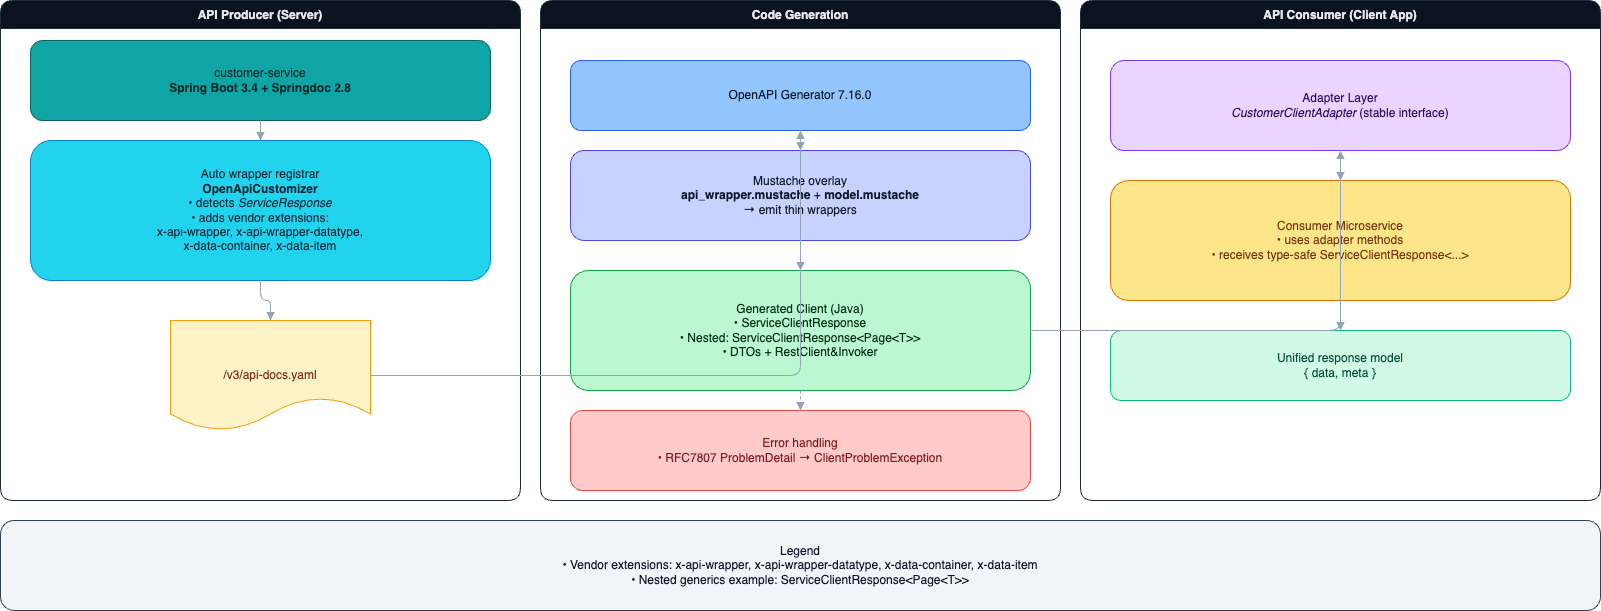
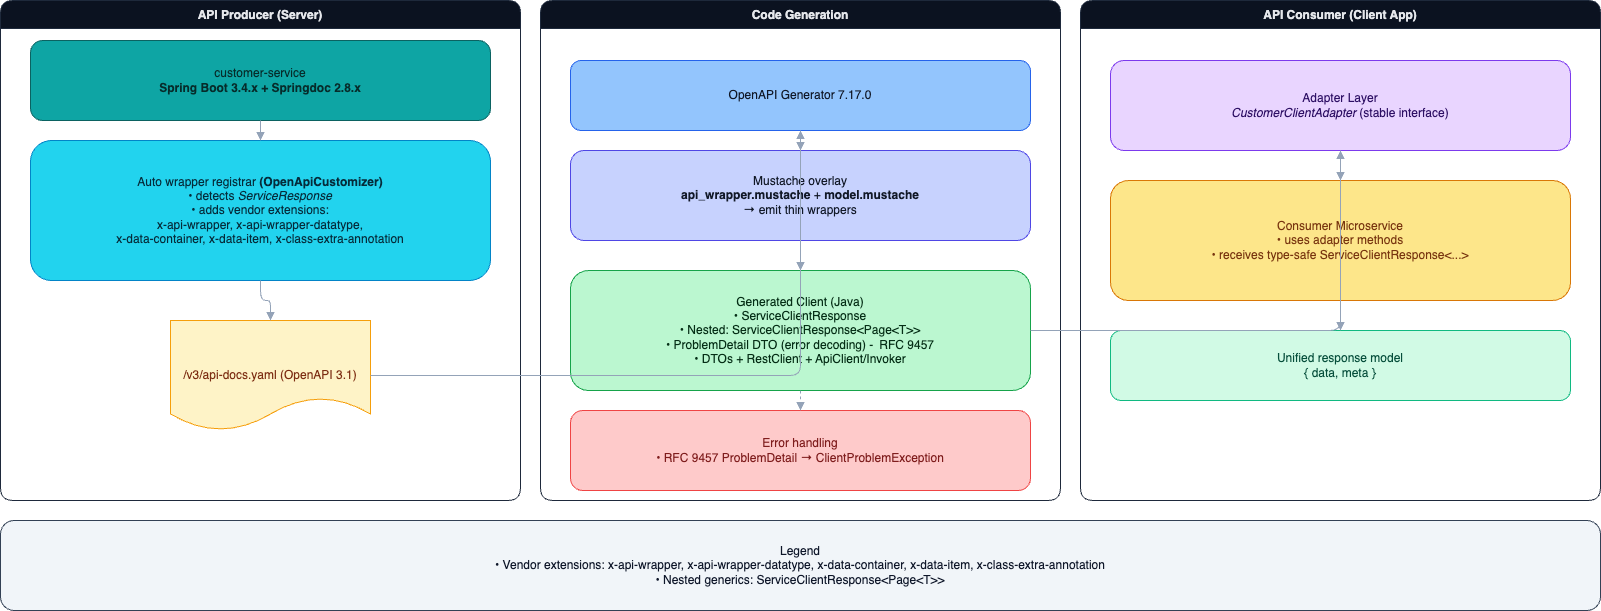
chore(deps+docs): upgrade to Spring Boot 3.4.11 and OpenAPI Generator 7.17.0, update docs and CodeQL
- Upgraded Spring Boot to 3.4.11 and OpenAPI Generator to 7.17.0
- Updated architectural diagram to reflect current stack (Spring Boot 3.4.x, RFC 9457)
- Revised documentation and version references across README and guides
- Enhanced CodeQL configuration with +security-and-quality query pack
- No functional changes; maintenance and alignment release groundwork for v0.7.3

diff --git a/README.md b/README.md
@@ -4,8 +4,8 @@
 [![Release](https://img.shields.io/github/v/release/bsayli/spring-boot-openapi-generics-clients?logo=github\&label=release)](https://github.com/bsayli/spring-boot-openapi-generics-clients/releases/latest)
 [![codecov](https://codecov.io/gh/bsayli/spring-boot-openapi-generics-clients/branch/main/graph/badge.svg)](https://codecov.io/gh/bsayli/spring-boot-openapi-generics-clients)
 [![Java](https://img.shields.io/badge/Java-21-red?logo=openjdk)](https://openjdk.org/projects/jdk/21/)
-[![Spring Boot](https://img.shields.io/badge/Spring%20Boot-3.4.10-green?logo=springboot)](https://spring.io/projects/spring-boot)
-[![OpenAPI Generator](https://img.shields.io/badge/OpenAPI%20Generator-7.16.0-blue?logo=openapiinitiative)](https://openapi-generator.tech/)
+[![Spring Boot](https://img.shields.io/badge/Spring%20Boot-3.4.11-green?logo=springboot)](https://spring.io/projects/spring-boot)
+[![OpenAPI Generator](https://img.shields.io/badge/OpenAPI%20Generator-7.17.0-blue?logo=openapiinitiative)](https://openapi-generator.tech/)
 [![License: MIT](https://img.shields.io/badge/License-MIT-yellow.svg)](LICENSE)
 
 ---
@@ -16,7 +16,7 @@
   <em><strong>End-to-end generics-aware OpenAPI clients</strong> — unified <code>{ data, meta }</code> responses without boilerplate.</em>
 </p>
 
-**Modern, type-safe OpenAPI client generation** — powered by **Spring Boot 3.4**, **Java 21**, and **OpenAPI Generator 7.16.0**.  
+**Modern, type-safe OpenAPI client generation** — powered by **Spring Boot 3.4**, **Java 21**, and **OpenAPI Generator 7.17.0**.  
 This repository demonstrates a production-grade setup where backend and client remain fully aligned through generics, supporting nested envelopes like `ServiceResponse<Page<T>>` and standardized [**RFC 9457 — Problem Details for HTTP APIs**](https://www.rfc-editor.org/rfc/rfc9457) error handling.
 
 > 🧠 **RFC 9457 vs RFC 7807**  
@@ -139,6 +139,7 @@ public class ServiceResponsePageCustomerDto
 
 ---
 
+<a id="architecture-overview"></a>
 ## ⚙ Architecture Overview
 
 <p align="center">
@@ -148,9 +149,9 @@ public class ServiceResponsePageCustomerDto
 </p>
 
 | Layer                 | Description                                                                                           |
-| --------------------- | ----------------------------------------------------------------------------------------------------- |
+| --------------------- |-------------------------------------------------------------------------------------------------------|
 | **Server (Producer)** | Publishes an **OpenAPI 3.1-compliant** spec via Springdoc 2.8.13 with auto-registered wrapper schemas |
-| **Client (Consumer)** | Uses **OpenAPI Generator 7.16.0** with Mustache overlays for generics support                         |
+| **Client (Consumer)** | Uses **OpenAPI Generator 7.17.0** with Mustache overlays for generics support                         |
 | **Envelope Model**    | Unified `{ data, meta }` response structure                                                           |
 | **Error Handling**    | **RFC 9457-compliant Problem Details** decoded into `ClientProblemException`                          |
 | **Nested Generics**   | Full support for `ServiceResponse<Page<T>>`                                                           |
@@ -262,11 +263,11 @@ for (CustomerDto c : page.content()) {
 ## 🧩 Tech Stack
 
 | Component             | Version | Purpose                               |
-| --------------------- | ------- | ------------------------------------- |
+| --------------------- |---------| ------------------------------------- |
 | **Java**              | 21      | Language baseline                     |
-| **Spring Boot**       | 3.4.10  | REST + OpenAPI provider               |
+| **Spring Boot**       | 3.4.11  | REST + OpenAPI provider               |
 | **Springdoc**         | 2.8.13  | OpenAPI 3.1 integration               |
-| **OpenAPI Generator** | 7.16.0  | Generics-aware code generation        |
+| **OpenAPI Generator** | 7.17.0  | Generics-aware code generation        |
 | **HttpClient5**       | 5.5     | Pooled, production-ready HTTP backend |
 
 ---

diff --git a/customer-service-client/README.md b/customer-service-client/README.md
@@ -1,8 +1,8 @@
 # customer-service-client
 
 [![Java 21](https://img.shields.io/badge/Java-21-red?logo=openjdk)](https://openjdk.org/projects/jdk/21/)
-[![Spring Boot](https://img.shields.io/badge/Spring%20Boot-3.4.10-green?logo=springboot)](https://spring.io/projects/spring-boot)
-[![OpenAPI Generator](https://img.shields.io/badge/OpenAPI%20Generator-7.16.0-blue?logo=openapiinitiative)](https://openapi-generator.tech/)
+[![Spring Boot](https://img.shields.io/badge/Spring%20Boot-3.4.11-green?logo=springboot)](https://spring.io/projects/spring-boot)
+[![OpenAPI Generator](https://img.shields.io/badge/OpenAPI%20Generator-7.17.0-blue?logo=openapiinitiative)](https://openapi-generator.tech/)
 [![License: MIT](https://img.shields.io/badge/License-MIT-yellow.svg)](../LICENSE)
 
 Generated Java client for the **customer-service**, showcasing **type‑safe generic responses** and **nested generics** with a minimal OpenAPI Generator Mustache overlay.
@@ -32,7 +32,7 @@ mvn -q clean install
 
 ## ✅ What You Get
 
-* **OpenAPI Generator 7.16.0** + **Spring `RestClient`**-based Java client.
+* **OpenAPI Generator 7.17.0** + **Spring `RestClient`**-based Java client.
 * Reusable generic base: `ServiceClientResponse<T>` containing `{ data, meta }`.
 * **Nested generics** support: `ServiceClientResponse<Page<CustomerDto>>`.
 * **RFC 9457 Problem decoding** via `ClientProblemException`.
@@ -270,7 +270,7 @@ These classes already exist in the shared `common` package and are excluded from
 
 ## 📚 Notes
 
-* **Toolchain:** Java 21, Spring Boot 3.4.10, OpenAPI Generator 7.16.0
+* **Toolchain:** Java 21, Spring Boot 3.4.11, OpenAPI Generator 7.17.0
 * **Options:** `useSpringBoot3=true`, `useJakartaEe=true`, `serializationLibrary=jackson`, `dateLibrary=java8`
 * **Spec file:** `src/main/resources/customer-api-docs.yaml`
 * Optional: `x-class-extra-annotation` injects annotations on wrappers.

diff --git a/docs/index.md b/docs/index.md
@@ -19,7 +19,7 @@ the unified `{ data, meta }` response model and full **nested generic support** 
 
 ## 💡 Overview
 
-Using Springdoc on the backend and OpenAPI Generator 7.16.0 on the client side, this setup enables seamless code
+Using Springdoc on the backend and OpenAPI Generator 7.17.0 on the client side, this setup enables seamless code
 generation where all responses are **type-safe**, **clean**, and **boilerplate-free**.
 
 ```java
@@ -108,9 +108,9 @@ Instant serverTime = response.getMeta().serverTime();
 | Component             | Version | Purpose                          |
 |-----------------------|---------|----------------------------------|
 | **Java**              | 21      | Language baseline                |
-| **Spring Boot**       | 3.4.10  | REST + OpenAPI provider          |
+| **Spring Boot**       | 3.4.11  | REST + OpenAPI provider          |
 | **Springdoc**         | 2.8.13  | OpenAPI 3.1 integration          |
-| **OpenAPI Generator** | 7.16.0  | Generics-aware client generation |
+| **OpenAPI Generator** | 7.17.0  | Generics-aware client generation |
 | **HttpClient5**       | 5.5     | Production-grade HTTP backend    |
 
 ---

diff --git a/customer-service/README.md b/customer-service/README.md
@@ -1,7 +1,7 @@
 # customer-service
 
 [![Java](https://img.shields.io/badge/Java-21-red?logo=openjdk)](https://openjdk.org/projects/jdk/21/)
-[![Spring Boot](https://img.shields.io/badge/Spring%20Boot-3.4.10-green?logo=springboot)](https://spring.io/projects/spring-boot)
+[![Spring Boot](https://img.shields.io/badge/Spring%20Boot-3.4.11-green?logo=springboot)](https://spring.io/projects/spring-boot)
 [![Build](https://github.com/bsayli/spring-boot-openapi-generics-clients/actions/workflows/build.yml/badge.svg)](https://github.com/bsayli/spring-boot-openapi-generics-clients/actions/workflows/build.yml)
 [![License: MIT](https://img.shields.io/badge/License-MIT-yellow.svg)](../LICENSE)
 
@@ -60,7 +60,7 @@ This module serves as the **server-side anchor**: the reference point for generi
 ## 🛠 Tech Stack
 
 * **Java 21**
-* **Spring Boot 3.4.10**
+* **Spring Boot 3.4.11**
 
   * spring-boot-starter-web
   * spring-boot-starter-validation

diff --git a/docs/adoption/client-side-adoption-pom.md b/docs/adoption/client-side-adoption-pom.md
@@ -69,7 +69,7 @@ Define reusable properties to simplify plugin management and template resolution
 ```xml
 
 <properties>
-    <openapi.generator.version>7.16.0</openapi.generator.version>
+    <openapi.generator.version>7.17.0</openapi.generator.version>
     <openapi.templates.upstream>${project.build.directory}/openapi-templates-upstream</openapi.templates.upstream>
     <openapi.templates.effective>${project.build.directory}/openapi-templates-effective</openapi.templates.effective>
     <build.helper.plugin.version>3.6.0</build.helper.plugin.version>
